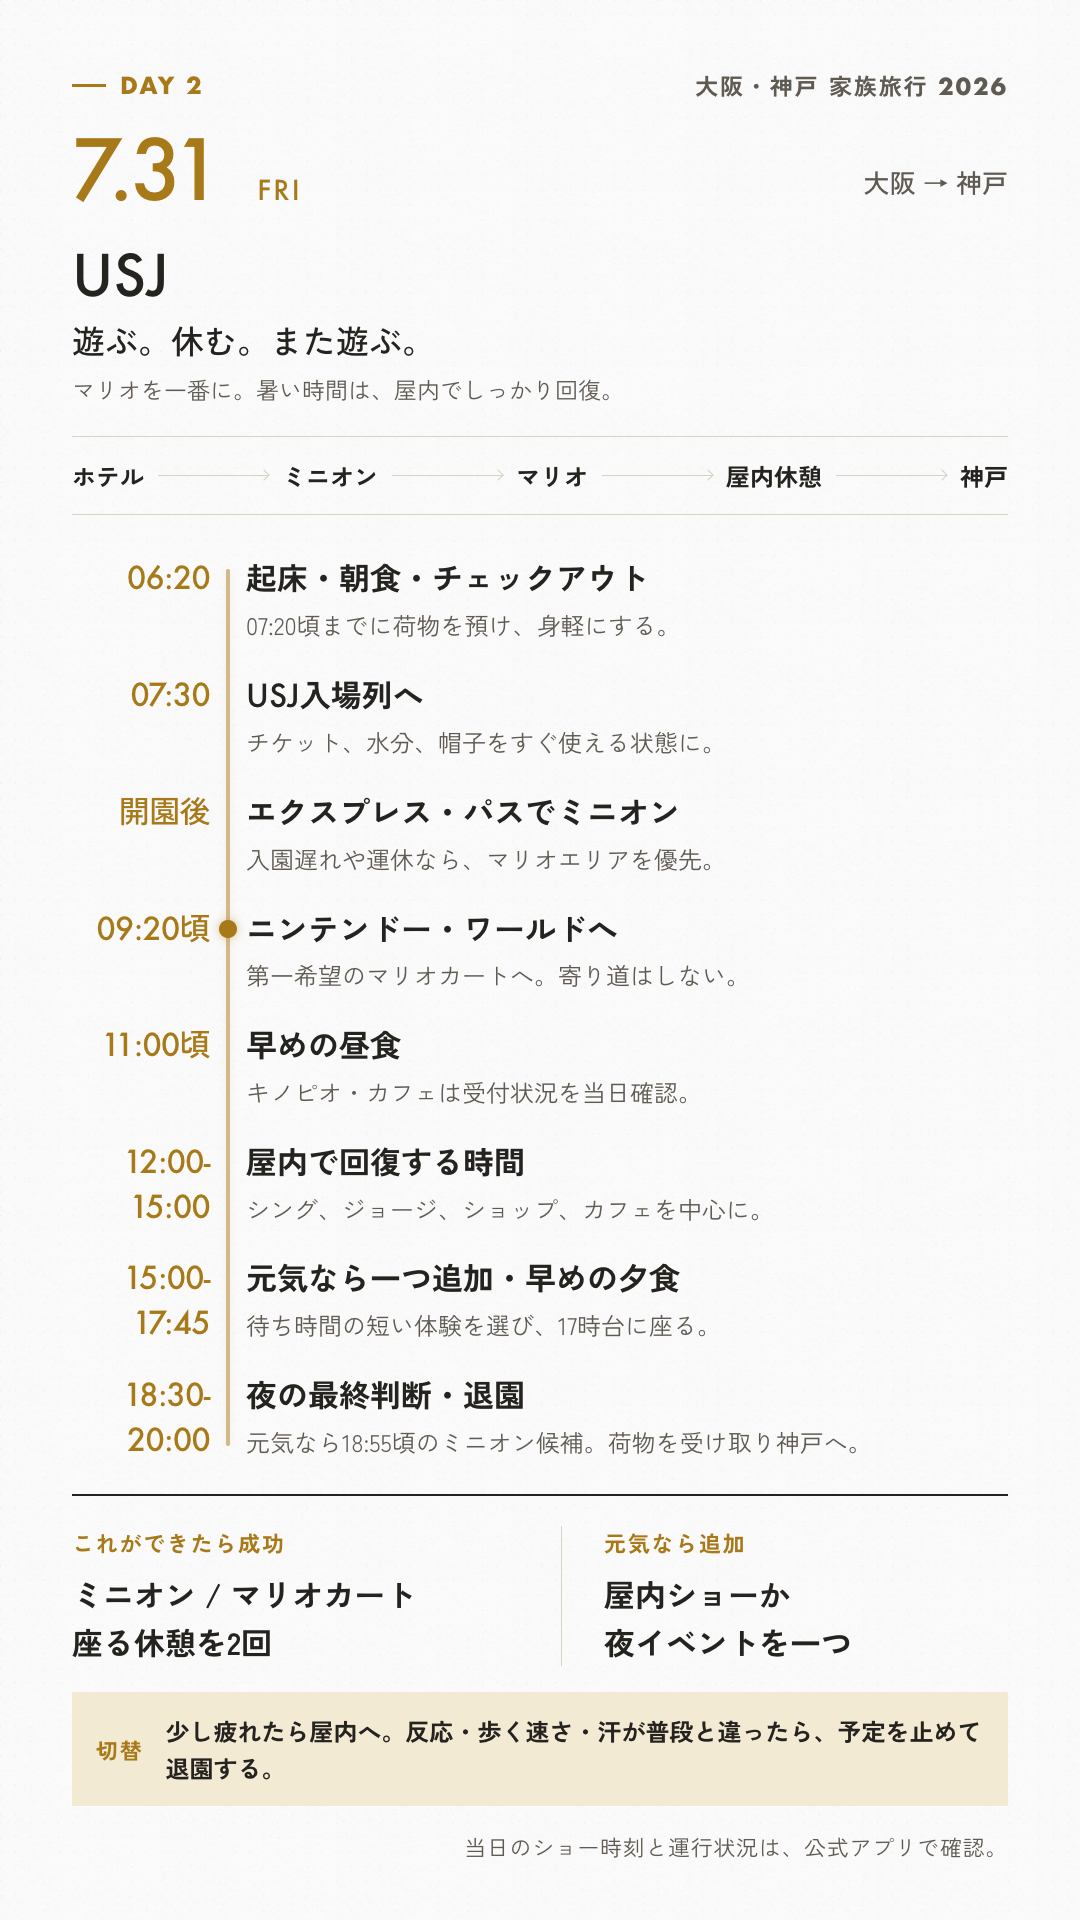
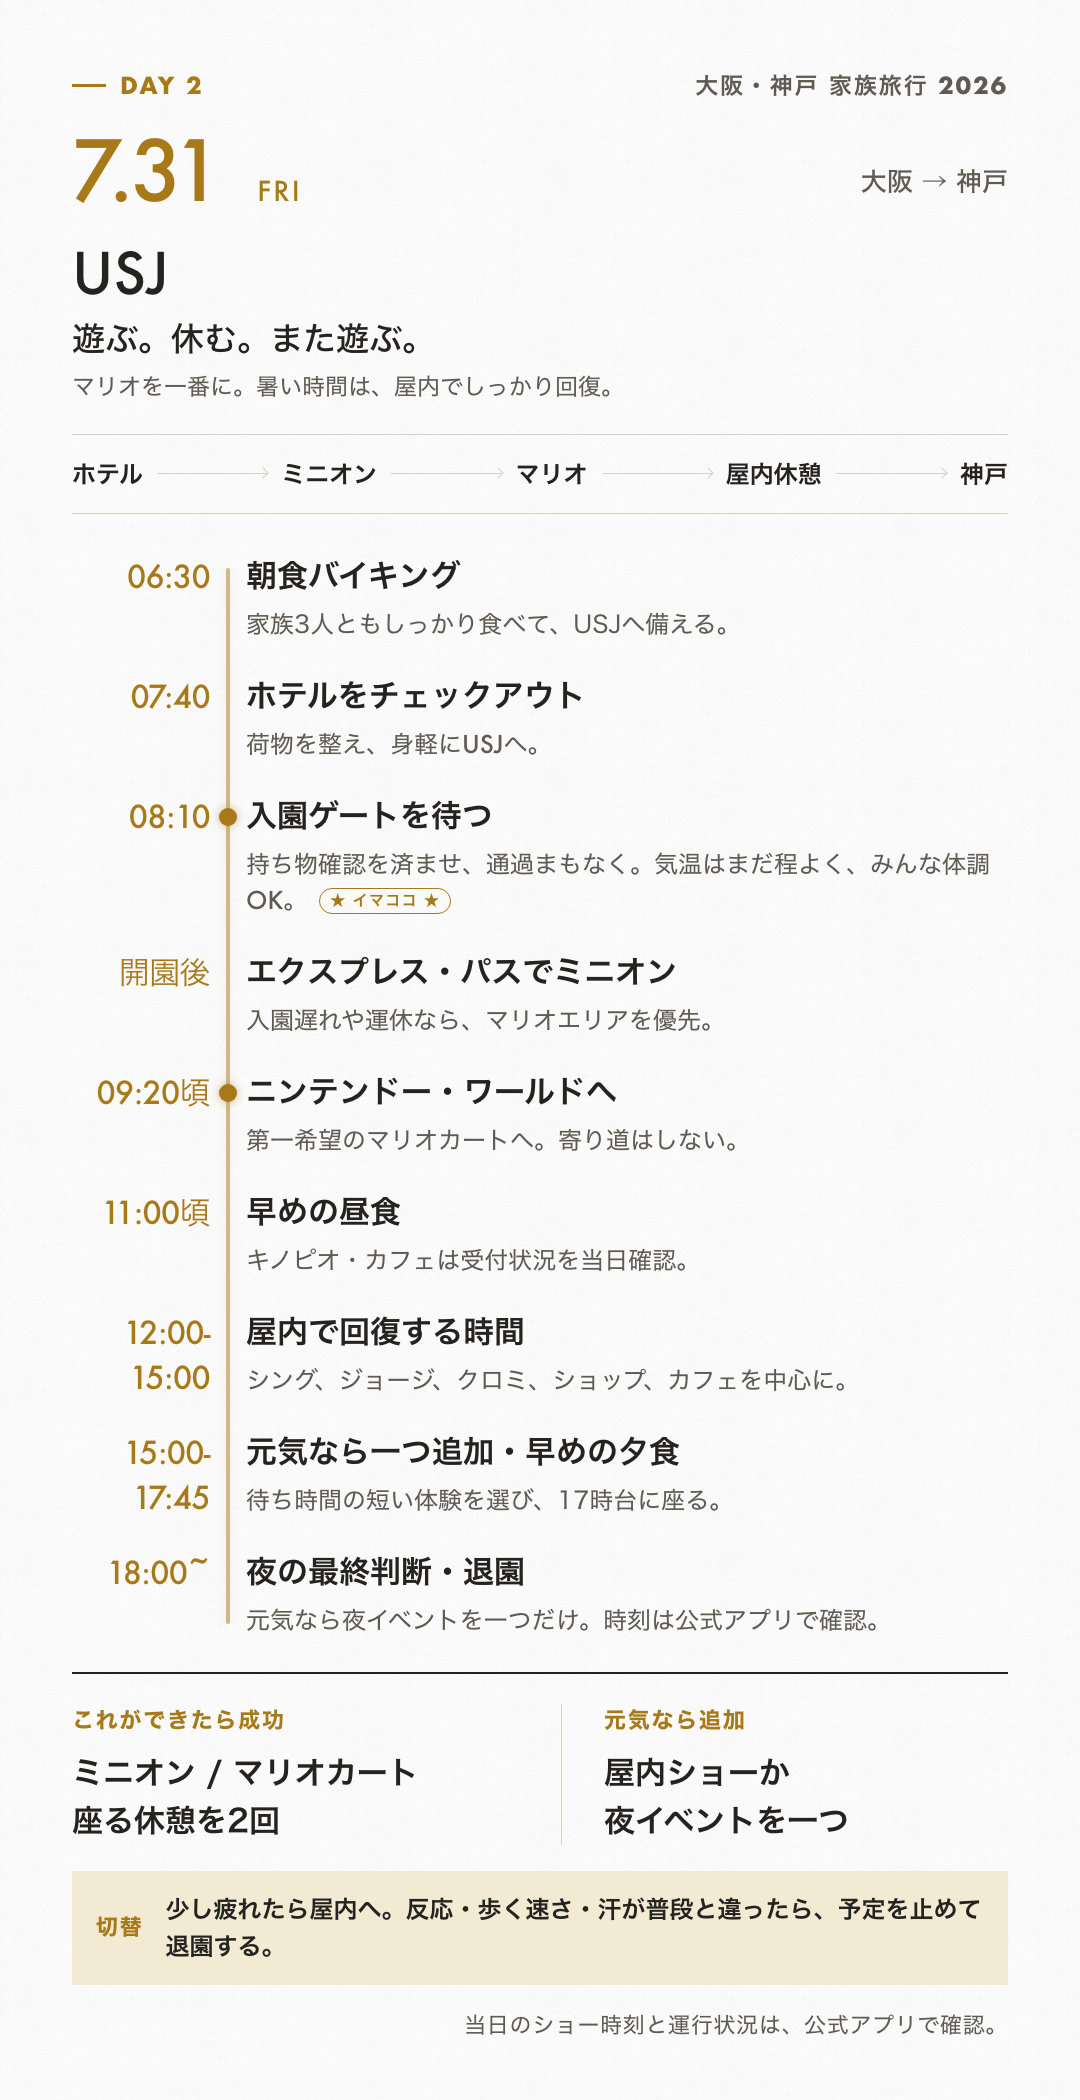
Record USJ morning readiness

diff --git a/docs/trip-plan.html b/docs/trip-plan.html
@@ -273,7 +273,7 @@
               <time>21:30</time>
               <div>
                 <h3>就寝</h3>
-                <p>みんな笑顔で初日を終えた。明日はUSJ。<span class="now-marker">★ イマココ ★</span></p>
+                <p>みんな笑顔で初日を終えた。明日はUSJ。</p>
               </div>
             </div>
           </div>
@@ -406,6 +406,7 @@
             優先順位は、マリオカート、エクスプレス・パスでミニオン、
             取れた場合だけキノピオ・カフェ。父さんは暑さ、体力、順番を整える。
           </p>
+          <p><span class="now-marker">★ イマココ ★</span> 08:10、持ち物確認を済ませ、入園ゲート通過を待つ。気温はまだ程よく、家族みんな体調OK。</p>
           <div class="mini-grid">
             <div>
               <h3>朝</h3>

diff --git a/docs/index.html b/docs/index.html
@@ -98,7 +98,7 @@
               src="guide/overview.png"
               alt="大阪・神戸家族旅行の全日程まとめ"
               width="1080"
-              height="1920"
+              height="2100"
             />
           </figure>
           <figure class="page">
